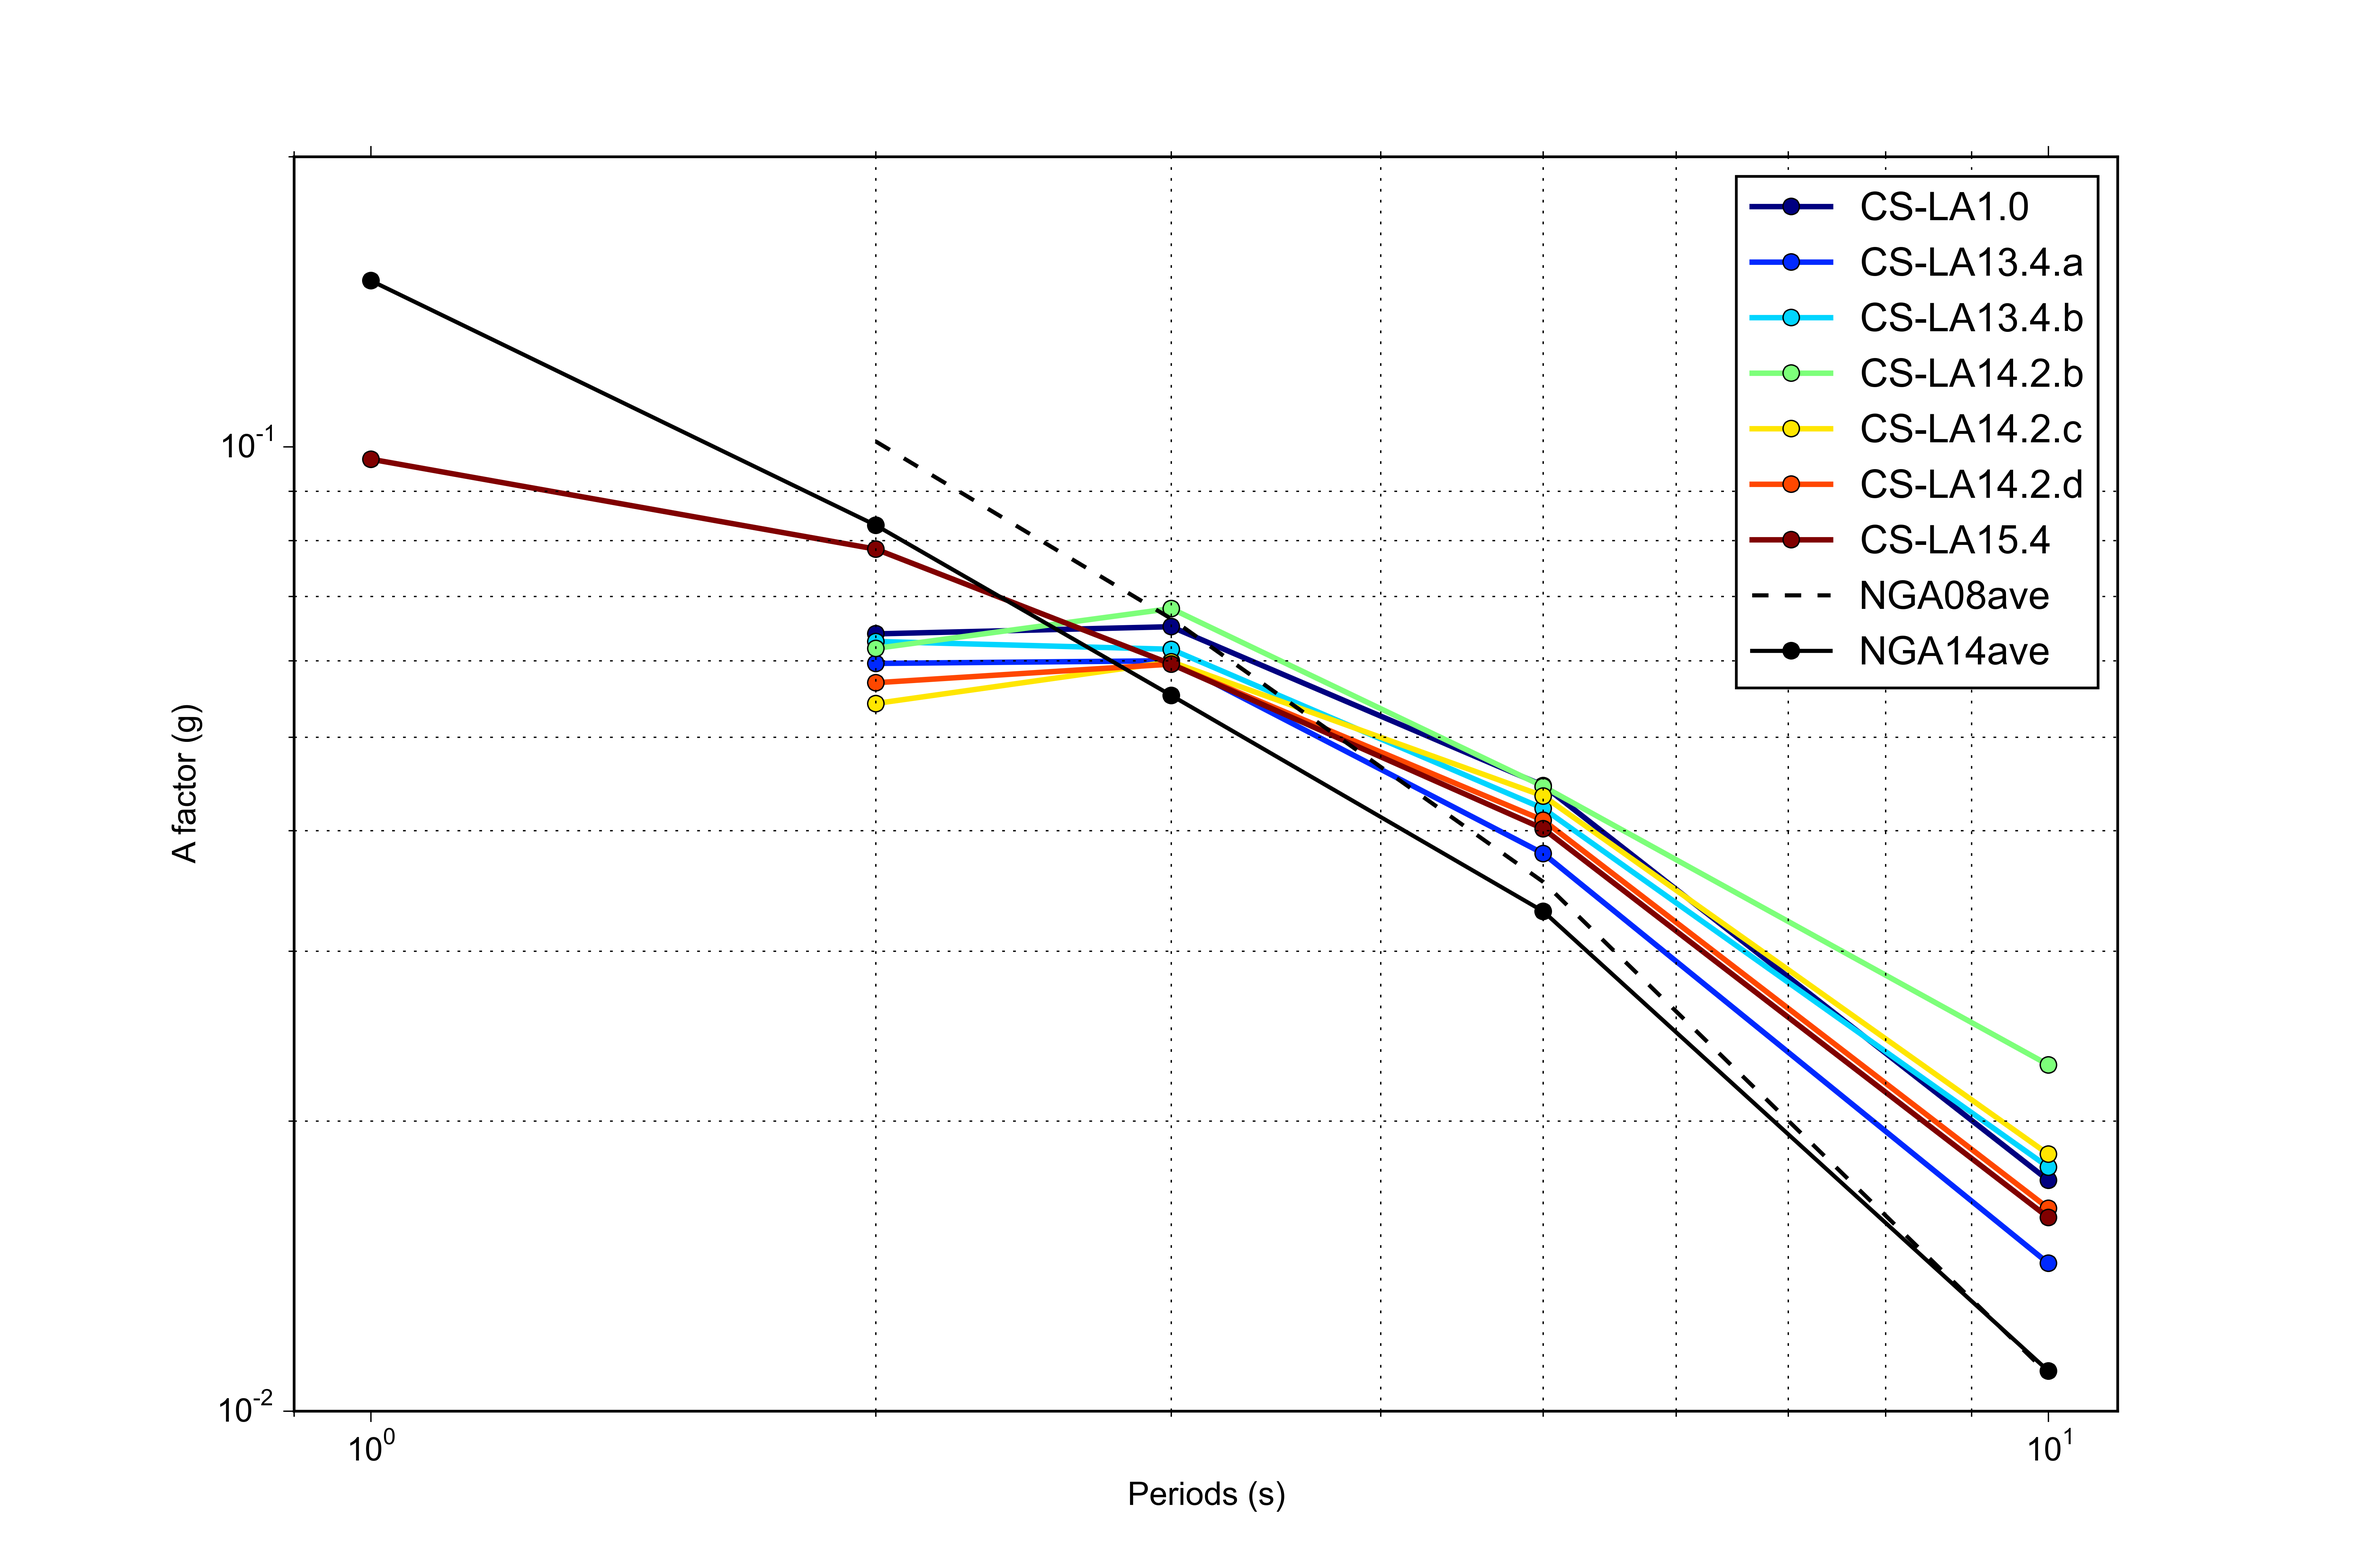
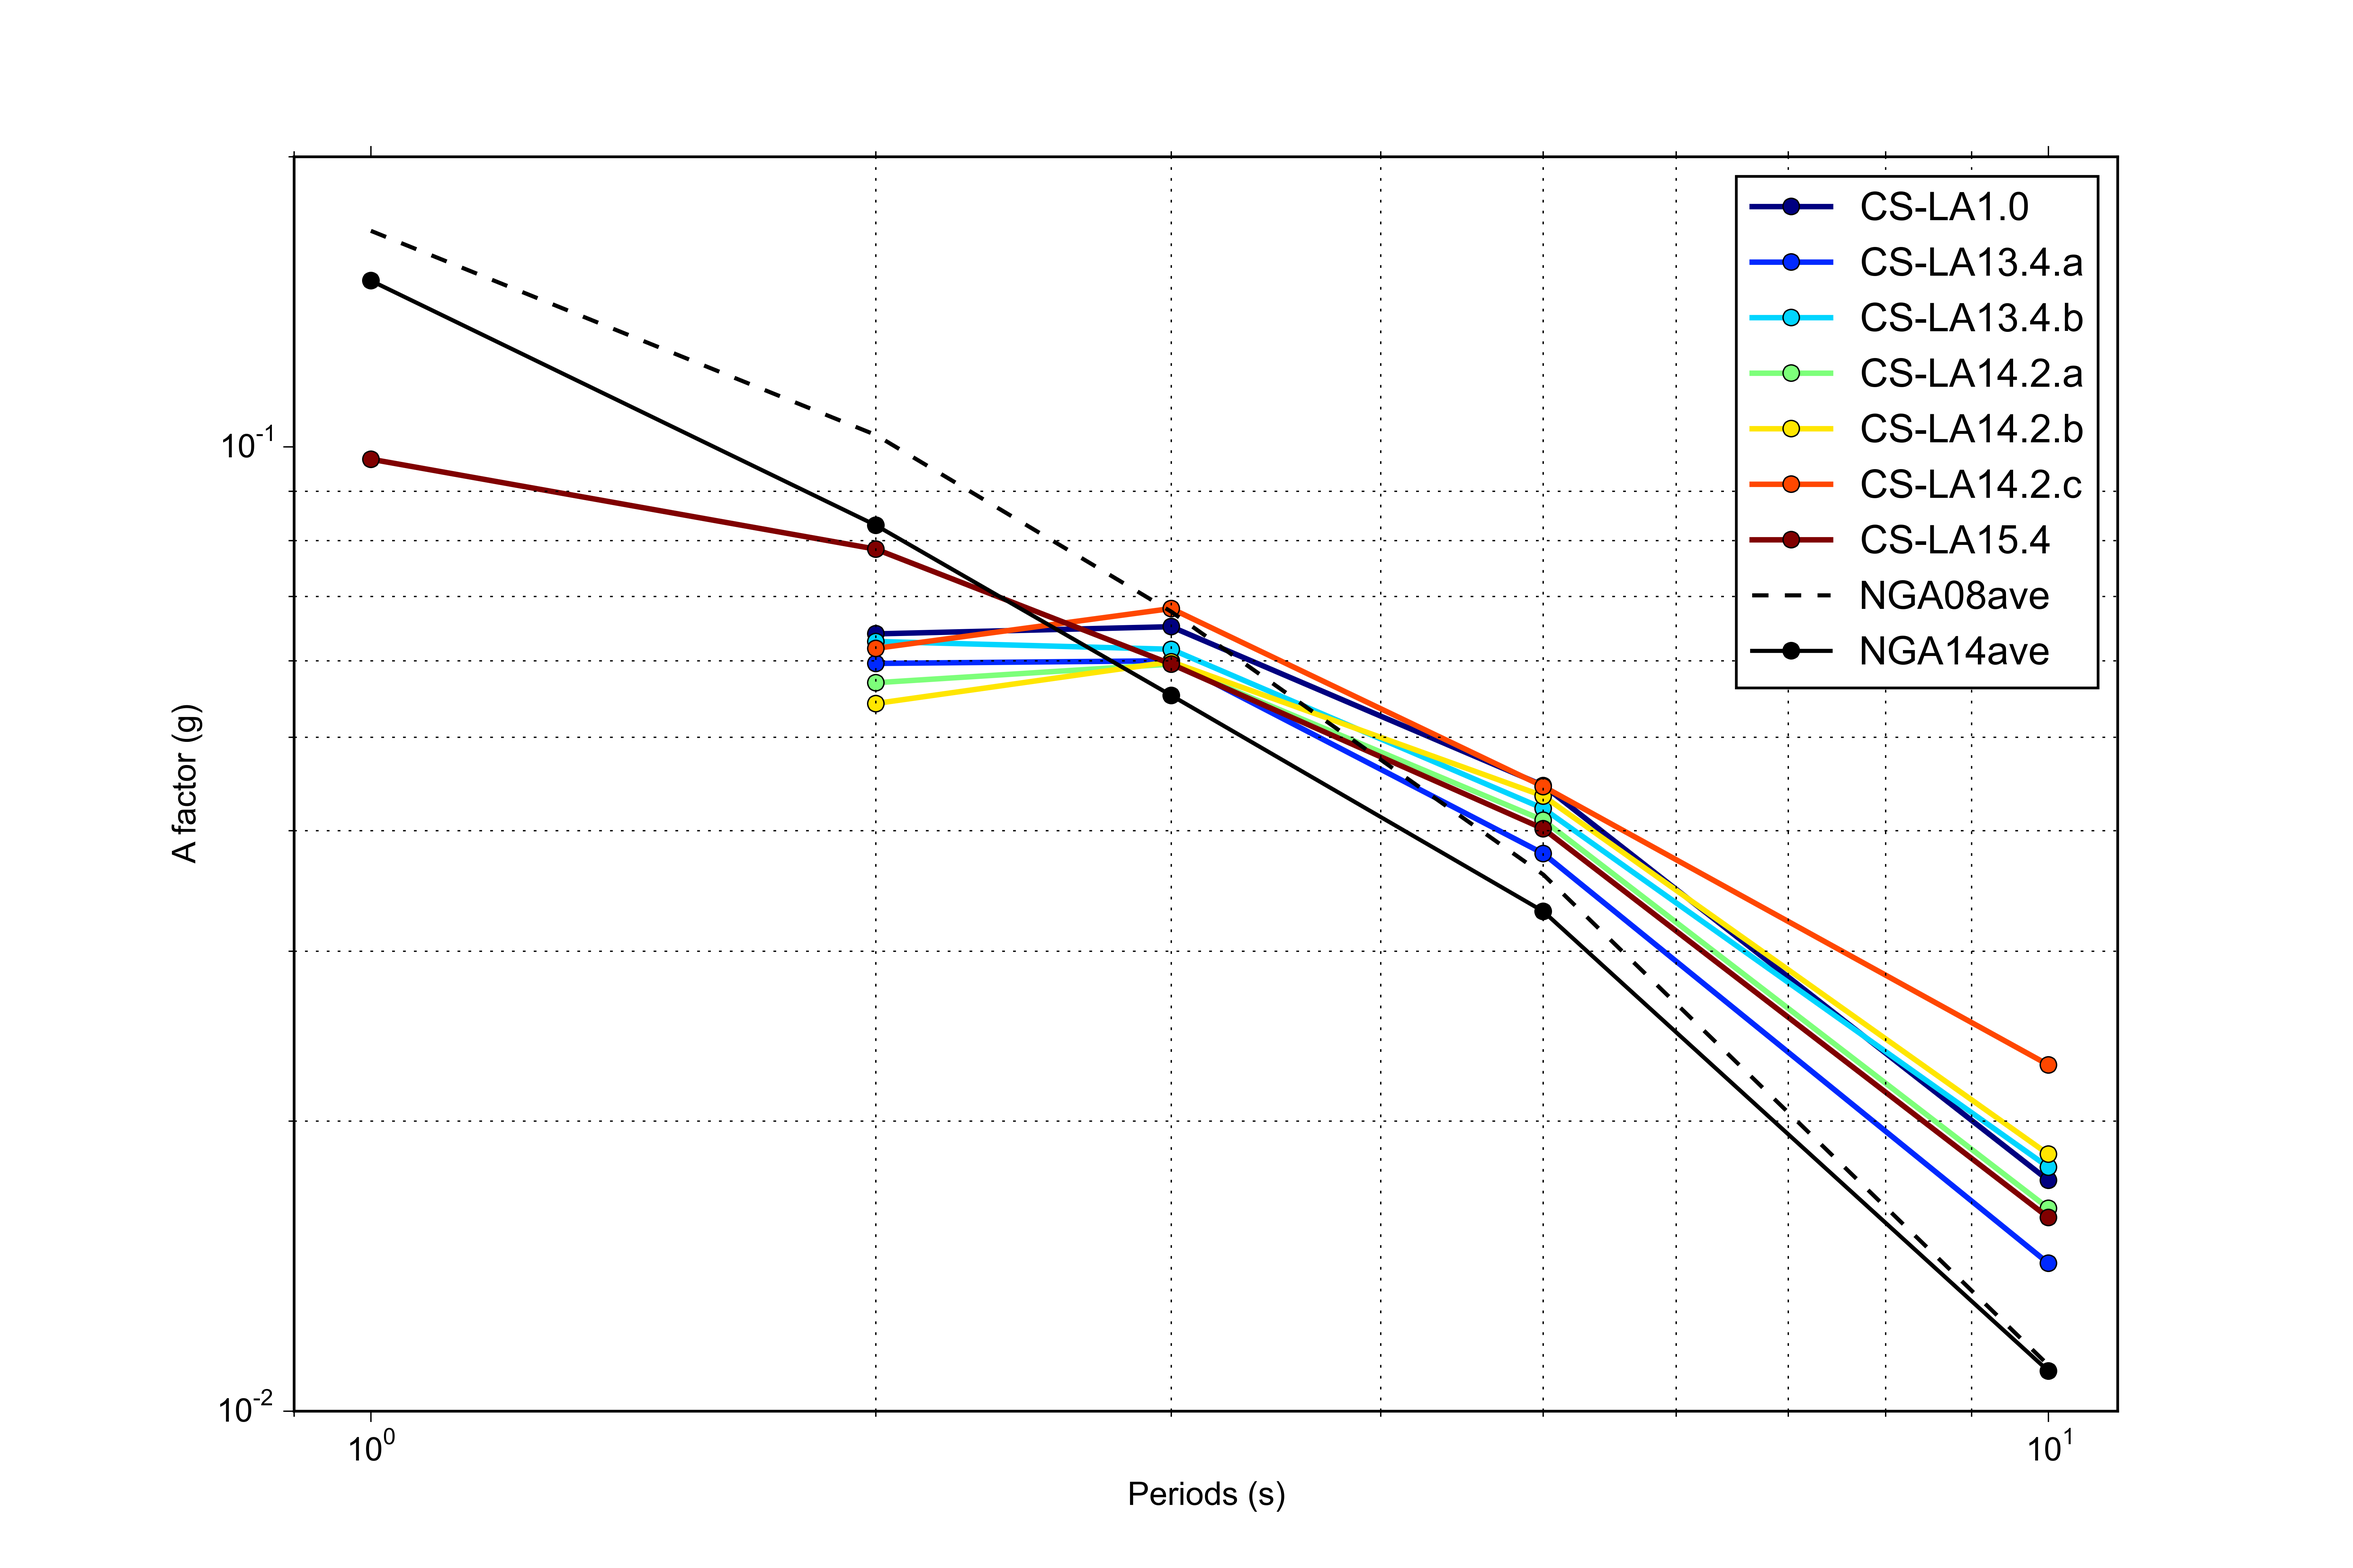
Afactor for NGA08 at 1.0s added

diff --git a/scripts/CompareCyberShakes/AfactorSummary_updated.py b/scripts/CompareCyberShakes/AfactorSummary_updated.py
@@ -25,13 +25,13 @@ modelDict = {
 	'CS-LA1.0':[35,5,3,1],   
 	'CS-LA13.4.a':[35,7,4,1],  
 	'CS-LA13.4.b':[35,7,4,4], 
-	'CS-LA14.2.b':[35,8,4,8],
-	'CS-LA14.2.c':[35,6,4,7],
-	'CS-LA14.2.d':[35,8,4,5],
+	'CS-LA14.2.a':[35,8,4,5],
+	'CS-LA14.2.b':[35,6,4,7],
+	'CS-LA14.2.c':[35,8,4,8],
 	'CS-LA15.4':[36,8,6,5], 
 	}
 
-modelKeys = ['CS-LA1.0','CS-LA13.4.a','CS-LA13.4.b','CS-LA14.2.b','CS-LA14.2.c','CS-LA14.2.d','CS-LA15.4']
+modelKeys = ['CS-LA1.0','CS-LA13.4.a','CS-LA13.4.b','CS-LA14.2.a','CS-LA14.2.b','CS-LA14.2.c','CS-LA15.4']
 Nmodels = len(modelKeys) 
 scalarMap = LineColorCoding(Nmodels)
 
@@ -67,17 +67,22 @@ if opt == 'Afactor':
 	outData[model] = []
 	print 'processing %s'%model 
 
-	if model in ['CS-LA14.2.c','CS-LA14.2.d','CS-LA15.4', ]:
+	if model in ['CS-LA14.2.a','CS-LA14.2.b','CS-LA15.4', ]:
 	    inPath = '/Users/fengw/work/Project/ABFanalysis/scripts/map_input/Model_Rups54' 
 	else: 
 	    inPath = '/Users/fengw/work/Project/CyberShake_analysis/scripts/map_input/Model_Rups54' 
+	
+	if model == 'CS-LA15.4': 
+	    prefix1 = 'ERF%s_SGT%s_RupVar%s_Vel%s_NGA14'%(erfID, sgtID, rupVarID, velID) 
+	    inFullPath1 = os.path.join(inPath, prefix1, 'Gkxmfs0/A/Sigma1.00_1.00') 
+
 	prefix = 'ERF%s_SGT%s_RupVar%s_Vel%s'%(erfID, sgtID, rupVarID, velID) 
 	inFullPath = os.path.join(inPath, prefix, 'Gkxmfs0/A/Sigma1.00_1.00') 
 
 	for T in ['1.00', '2.00','3.00','5.00','10.00']: 
 	    if T=='1.00' and model!='CS-LA15.4': 
 		continue 
-
+            
 	    inFile0 = 'CyberShake.NGAs.%s.a'%T 
 	    fidin = open(os.path.join(inFullPath, inFile0), 'r') 
 	    line = fidin.readline() 
@@ -85,25 +90,45 @@ if opt == 'Afactor':
 		line = fidin.readline() 
 	    spl = line.strip().split()
 	    str1 = []
-	    tmp1 = []; tmp2 = []
+	    tmp1 = []
 	    for i in range(len(spl)): 
 		if i == 4:
 		    outData[model].append(float(spl[4]))
 		    str1.append(spl[4])
 		else: 
 		    # NGA all based on CVMS4.26
-		    if model == 'CS-LA13.4.a': 
-			tmp1.append(float(spl[4])-float(spl[i])) 
 		    if model == 'CS-LA15.4':
-			tmp2.append(float(spl[4])-float(spl[i]))
+			tmp1.append(float(spl[4])-float(spl[i]))
 		    
 		    str1.append(str(float(spl[4])-float(spl[i])))
 	    fidout.write(','.join(tuple(str1))+'\n') 
 	    fidin.close() 
 
-	    if model == 'CS-LA13.4.a': 
-		NGA08ave.append(sum(np.exp(tmp1))/4.) 
+	    if model == 'CS-LA15.4': 
+		# NGA14 (use inFullPath1)
+		inFile0 = 'CyberShake.NGAs.%s.a'%T 
+		fidin = open(os.path.join(inFullPath1, inFile0), 'r') 
+		line = fidin.readline() 
+		if '#' in line: 
+		    line = fidin.readline() 
+		spl = line.strip().split()
+		tmp2 = []
+		for i in range(len(spl)): 
+		    if i == 4:
+			continue
+			#outData[model].append(float(spl[4]))
+			#str1.append(spl[4])
+		    else: 
+			# NGA all based on CVMS4.26
+			if model == 'CS-LA15.4':
+			    tmp2.append(float(spl[4])-float(spl[i]))
+			
+			#str1.append(str(float(spl[4])-float(spl[i])))
+		#fidout.write(','.join(tuple(str1))+'\n') 
+		fidin.close() 
+	    
 	    if model == 'CS-LA15.4':
+		NGA08ave.append(sum(np.exp(tmp1))/4.) 
 		NGA14ave.append(sum(np.exp(tmp2))/4.) 
 
 	if model != 'CS-LA15.4':
@@ -114,7 +139,7 @@ if opt == 'Afactor':
     fidout.close()
 
     # plot NGA08 
-    ax.loglog([2,3,5,10], NGA08ave,'k--',lw=1.5,label='NGA08ave') 
+    ax.loglog([1,2,3,5,10], NGA08ave,'k--',lw=1.5,label='NGA08ave') 
     ax.loglog([1,2,3,5,10], NGA14ave,'k-o',lw=1.5,label='NGA14ave') 
 
     from matplotlib.ticker import LogLocator, FormatStrFormatter
